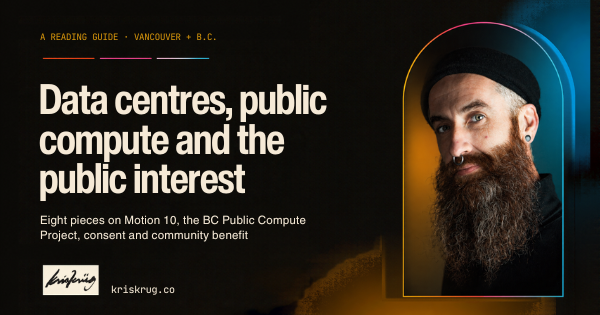
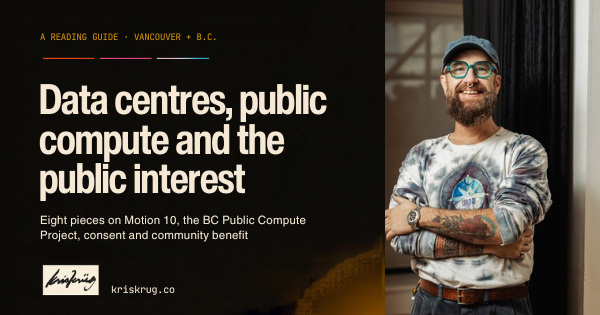
content: use the arms-crossed portrait and drop the arch frame
Kris asked for the friendlier photo (media 12629) and no arch.

diff --git a/content/drafts/2026-11-24-data-centres-guide-redesign/content.new.html b/content/drafts/2026-11-24-data-centres-guide-redesign/content.new.html
@@ -52,19 +52,14 @@ body:has(.dc-guide) .aurora-page-2026 { padding-top: 0 !important; padding-botto
 .dc-guide .dc-hero__note {
   margin-top: 1.2rem; padding-left: 14px; border-left: 3px solid var(--amber);
   font-size: 1rem; line-height: 1.55; color: #d9cdb0; max-width: 52ch; --aurora-ink-soft: #d9cdb0; --revive-ink-soft: #d9cdb0;}
-.dc-guide .dc-hero__portrait { margin: 0; position: relative; justify-self: center; width: min(100%, 400px); }
-.dc-guide .dc-hero__portrait::before {
-  content: ""; position: absolute; inset: 22px -22px -22px 22px;
-  border: 2px solid rgba(232,181,58,.55); border-radius: 999px 999px 22px 22px;
-}
+.dc-guide .dc-hero__portrait { margin: 0; justify-self: center; width: min(100%, 380px); }
 .dc-guide .dc-hero__portrait img {
-  position: relative; display: block; width: 100%; height: auto; aspect-ratio: 4 / 5;
-  object-fit: cover; object-position: 50% 28%;
-  border-radius: 999px 999px 18px 18px; padding: 5px;
-  background: linear-gradient(165deg, var(--amber), #d6337a 50%, var(--cyan));
+  display: block; width: 100%; height: auto; aspect-ratio: 4 / 5;
+  object-fit: cover; object-position: 50% 12%;
+  border-radius: 16px; box-shadow: 0 30px 60px -28px rgba(0,0,0,.8);
 }
 .dc-guide .dc-hero__portrait figcaption {
-  position: relative; margin-top: 1.4rem; text-align: center;
+  margin-top: 1rem; text-align: left;
   font-family: var(--mono); font-size: .72rem; letter-spacing: .1em; text-transform: uppercase; color: #bfb39a !important;
 }
 
@@ -186,8 +181,7 @@ body:has(.dc-guide) .aurora-page-2026 { padding-top: 0 !important; padding-botto
 
 @media (max-width: 820px) {
   .dc-guide .dc-hero__inner { grid-template-columns: 1fr; }
-  .dc-guide .dc-hero__portrait { order: -1; width: min(44vw, 180px); justify-self: start; margin-left: 4px; }
-  .dc-guide .dc-hero__portrait::before { inset: 10px -10px -10px 10px; }
+  .dc-guide .dc-hero__portrait { order: -1; width: min(52vw, 210px); justify-self: start; }
   .dc-guide .dc-hero__portrait figcaption { text-align: left; margin-top: .9rem; font-size: .62rem; white-space: nowrap; }
   .dc-guide .dc-hero { padding-top: 32px; }
   .dc-guide .dc-asks { margin-left: var(--gut) !important; margin-right: var(--gut) !important; }
@@ -228,8 +222,8 @@ body:has(.dc-guide) .aurora-page-2026 { padding-top: 0 !important; padding-botto
 <!-- /wp:paragraph -->
 </div>
 <!-- /wp:group -->
-<!-- wp:image {"id":2682,"sizeSlug":"medium_large","linkDestination":"none","className":"dc-hero__portrait"} -->
-<figure class="wp-block-image size-medium_large dc-hero__portrait"><img src="https://kriskrug.co/wp-content/uploads/2023/07/krug-1-768x702.jpg" alt="Kris Krüg in a black knit cap, lit in amber and blue" class="wp-image-2682"/><figcaption class="wp-element-caption">Kris Krüg · founder, BC + AI</figcaption></figure>
+<!-- wp:image {"id":12629,"sizeSlug":"large","linkDestination":"none","className":"dc-hero__portrait"} -->
+<figure class="wp-block-image size-large dc-hero__portrait"><img src="https://kriskrug.co/wp-content/uploads/2026/07/kris-krug-van-ai-portrait-2025-682x1024.jpg" alt="Kris Krüg smiling with arms crossed, wearing teal glasses, a cap, and a VAN-AI shirt" class="wp-image-12629"/><figcaption class="wp-element-caption">Kris Krüg · founder, BC + AI</figcaption></figure>
 <!-- /wp:image -->
 </div>
 <!-- /wp:group -->

diff --git a/content/drafts/2026-11-24-data-centres-guide-redesign/guide.css b/content/drafts/2026-11-24-data-centres-guide-redesign/guide.css
@@ -49,19 +49,14 @@ body:has(.dc-guide) .aurora-page-2026 { padding-top: 0 !important; padding-botto
 .dc-guide .dc-hero__note {
   margin-top: 1.2rem; padding-left: 14px; border-left: 3px solid var(--amber);
   font-size: 1rem; line-height: 1.55; color: #d9cdb0; max-width: 52ch; --aurora-ink-soft: #d9cdb0; --revive-ink-soft: #d9cdb0;}
-.dc-guide .dc-hero__portrait { margin: 0; position: relative; justify-self: center; width: min(100%, 400px); }
-.dc-guide .dc-hero__portrait::before {
-  content: ""; position: absolute; inset: 22px -22px -22px 22px;
-  border: 2px solid rgba(232,181,58,.55); border-radius: 999px 999px 22px 22px;
-}
+.dc-guide .dc-hero__portrait { margin: 0; justify-self: center; width: min(100%, 380px); }
 .dc-guide .dc-hero__portrait img {
-  position: relative; display: block; width: 100%; height: auto; aspect-ratio: 4 / 5;
-  object-fit: cover; object-position: 50% 28%;
-  border-radius: 999px 999px 18px 18px; padding: 5px;
-  background: linear-gradient(165deg, var(--amber), #d6337a 50%, var(--cyan));
+  display: block; width: 100%; height: auto; aspect-ratio: 4 / 5;
+  object-fit: cover; object-position: 50% 12%;
+  border-radius: 16px; box-shadow: 0 30px 60px -28px rgba(0,0,0,.8);
 }
 .dc-guide .dc-hero__portrait figcaption {
-  position: relative; margin-top: 1.4rem; text-align: center;
+  margin-top: 1rem; text-align: left;
   font-family: var(--mono); font-size: .72rem; letter-spacing: .1em; text-transform: uppercase; color: #bfb39a !important;
 }
 
@@ -183,8 +178,7 @@ body:has(.dc-guide) .aurora-page-2026 { padding-top: 0 !important; padding-botto
 
 @media (max-width: 820px) {
   .dc-guide .dc-hero__inner { grid-template-columns: 1fr; }
-  .dc-guide .dc-hero__portrait { order: -1; width: min(44vw, 180px); justify-self: start; margin-left: 4px; }
-  .dc-guide .dc-hero__portrait::before { inset: 10px -10px -10px 10px; }
+  .dc-guide .dc-hero__portrait { order: -1; width: min(52vw, 210px); justify-self: start; }
   .dc-guide .dc-hero__portrait figcaption { text-align: left; margin-top: .9rem; font-size: .62rem; white-space: nowrap; }
   .dc-guide .dc-hero { padding-top: 32px; }
   .dc-guide .dc-asks { margin-left: var(--gut) !important; margin-right: var(--gut) !important; }

diff --git a/content/drafts/2026-11-24-data-centres-guide-redesign/build.py b/content/drafts/2026-11-24-data-centres-guide-redesign/build.py
@@ -187,10 +187,11 @@ hero_text = "\n".join(
     ]
 )
 portrait = image(
-    2682,
-    f"{UP}/2023/07/krug-1-768x702.jpg",
-    "Kris Krüg in a black knit cap, lit in amber and blue",
+    12629,
+    f"{UP}/2026/07/kris-krug-van-ai-portrait-2025-682x1024.jpg",
+    "Kris Krüg smiling with arms crossed, wearing teal glasses, a cap, and a VAN-AI shirt",
     "dc-hero__portrait",
+    size="large",
     caption="Kris Krüg · founder, BC + AI",
 )
 hero = group(

diff --git a/content/drafts/2026-11-24-data-centres-guide-redesign/README.md b/content/drafts/2026-11-24-data-centres-guide-redesign/README.md
@@ -4,13 +4,13 @@ Status: preview only. Not applied to the live page.
 
 - Live page: https://kriskrug.co/data-centres-public-compute-and-the-public-interest/ (page 13069)
 - Preview draft: page 13079, `https://kriskrug.co/?page_id=13079&preview=true` (draft, needs a logged-in session)
-- Share graphic: Canva design `DAHb2eq1NCQ` (1200 x 630)
+- Share graphic: Canva design `DAHb2eq1NCQ` (1200 x 630), photo 12629 as a full-height right panel. Edits are held in an open Canva transaction until Kris approves.
 
 ## What changed
 
 The page content is rebuilt from the live content with no factual edits:
 
-- Dark full-bleed hero with the H1, the intro text and portrait 2682 in an arched frame with a gradient ring. The theme's own page title is hidden on this page only (`body:has(.dc-guide)`), so there is still one visible H1.
+- Dark full-bleed hero with the H1, the intro text and portrait 12629 (arms crossed, cap, teal glasses) as a plain rounded photo. Kris chose this photo over portrait 2682 and asked for no arch frame. The theme's own page title is hidden on this page only (`body:has(.dc-guide)`), so there is still one visible H1.
 - "The ask, in three parts" strip. Its wording is taken from the first card's summary and the intro.
 - Eight cards in three colour-coded chapters (rust, blue, pink). Each card has a number, a source and date line, a "Start here" badge where the live page had one, the existing screenshot (media 13071 to 13078) in a browser-frame treatment, the title link and the summary. The whole card is clickable through the title link, so each card has one link.
 - The Watch section keeps the YouTube embed, its caption and both recording links, in a dark band.
@@ -28,7 +28,7 @@ The CSS is inline in a `wp:html` block and scoped to `.dc-guide`. No theme, snip
 
 - All 86 blocks load as valid in the block editor.
 - Heading order: one visible H1, H2 chapters, H3 cards.
-- Every image has alt text, a srcset and Photon resizing. Cards below the fold lazy-load. The portrait gets `fetchpriority="high"` and loads at 768 px (about 95 KB) instead of the 2000 px original.
+- Every image has alt text, a srcset and Photon resizing. Cards below the fold lazy-load. The portrait gets `fetchpriority="high"` and loads at the 682 x 1024 size with a srcset, instead of the 2000 px original the live page uses.
 - WCAG contrast: every text pair passes AA. The lowest is 4.86:1.
 - At 390 px wide there is no horizontal scroll and the cards stack to one column.
 
